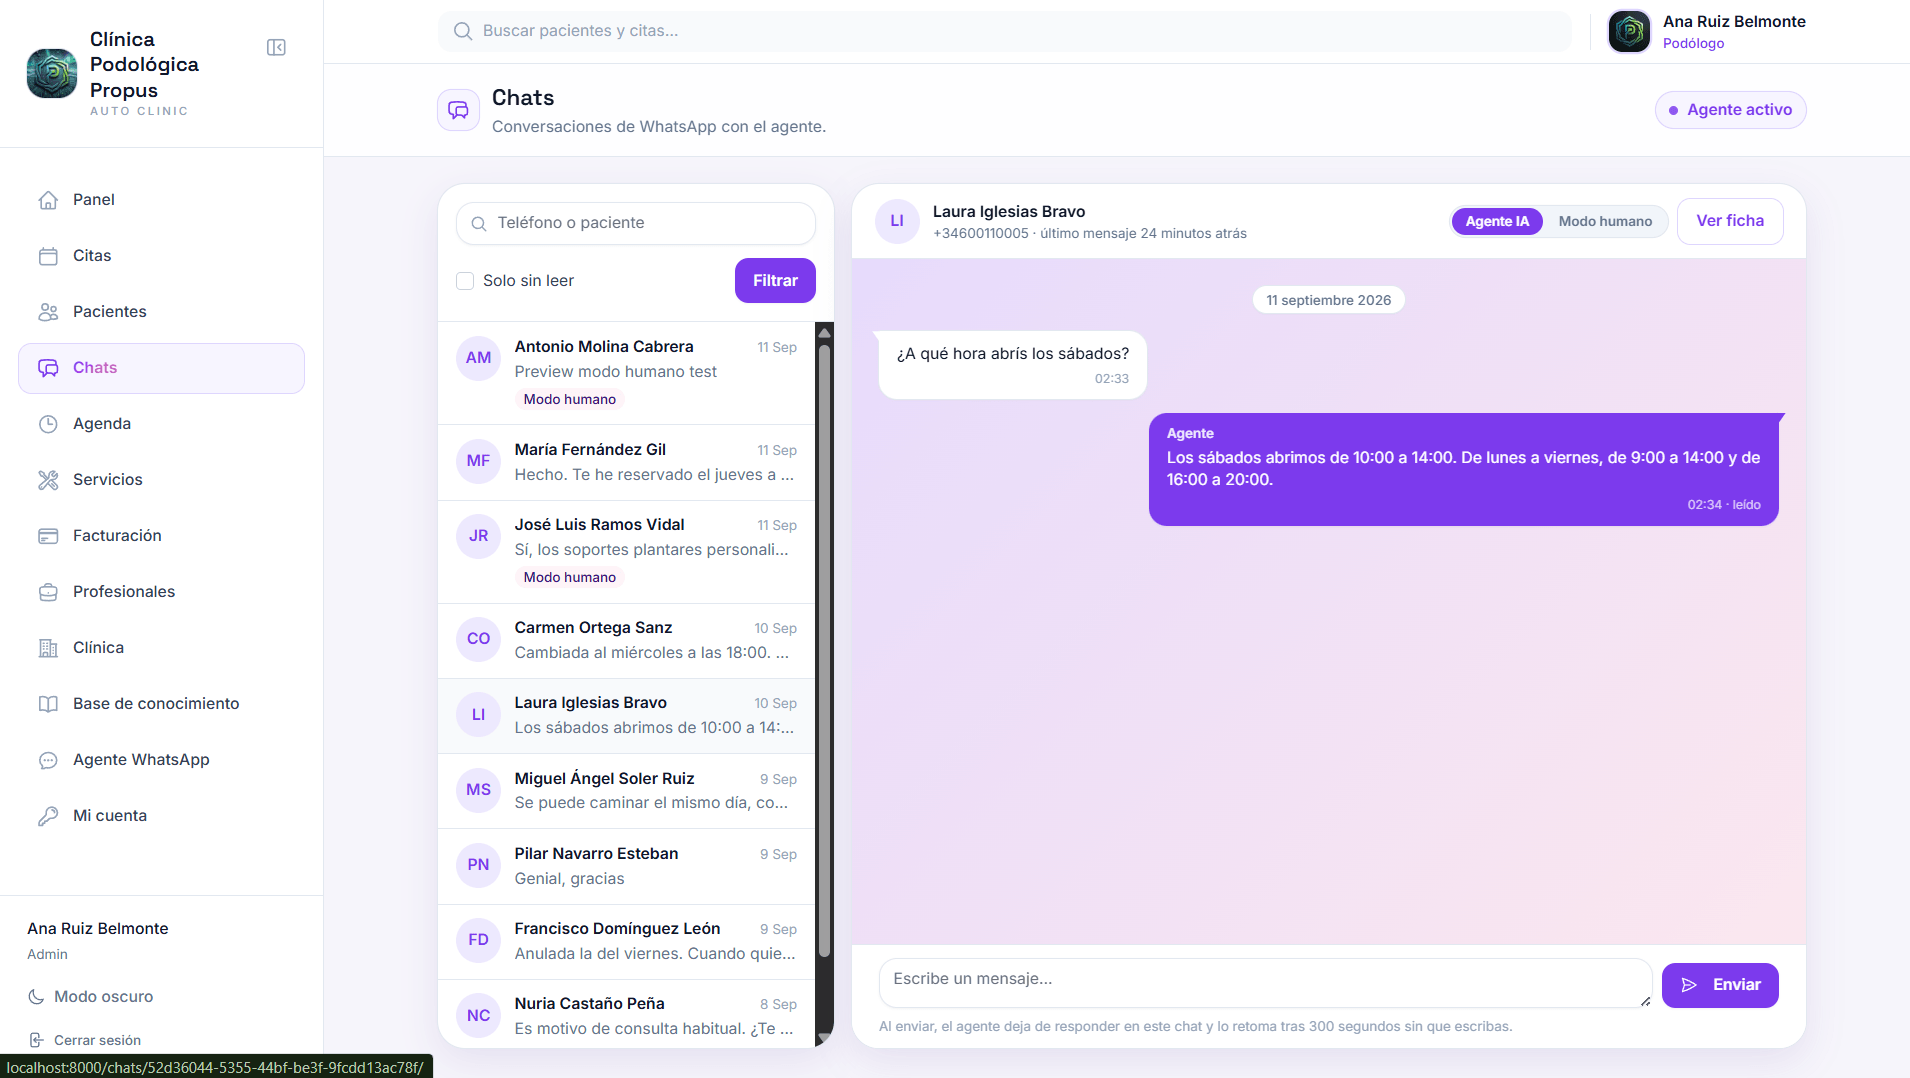
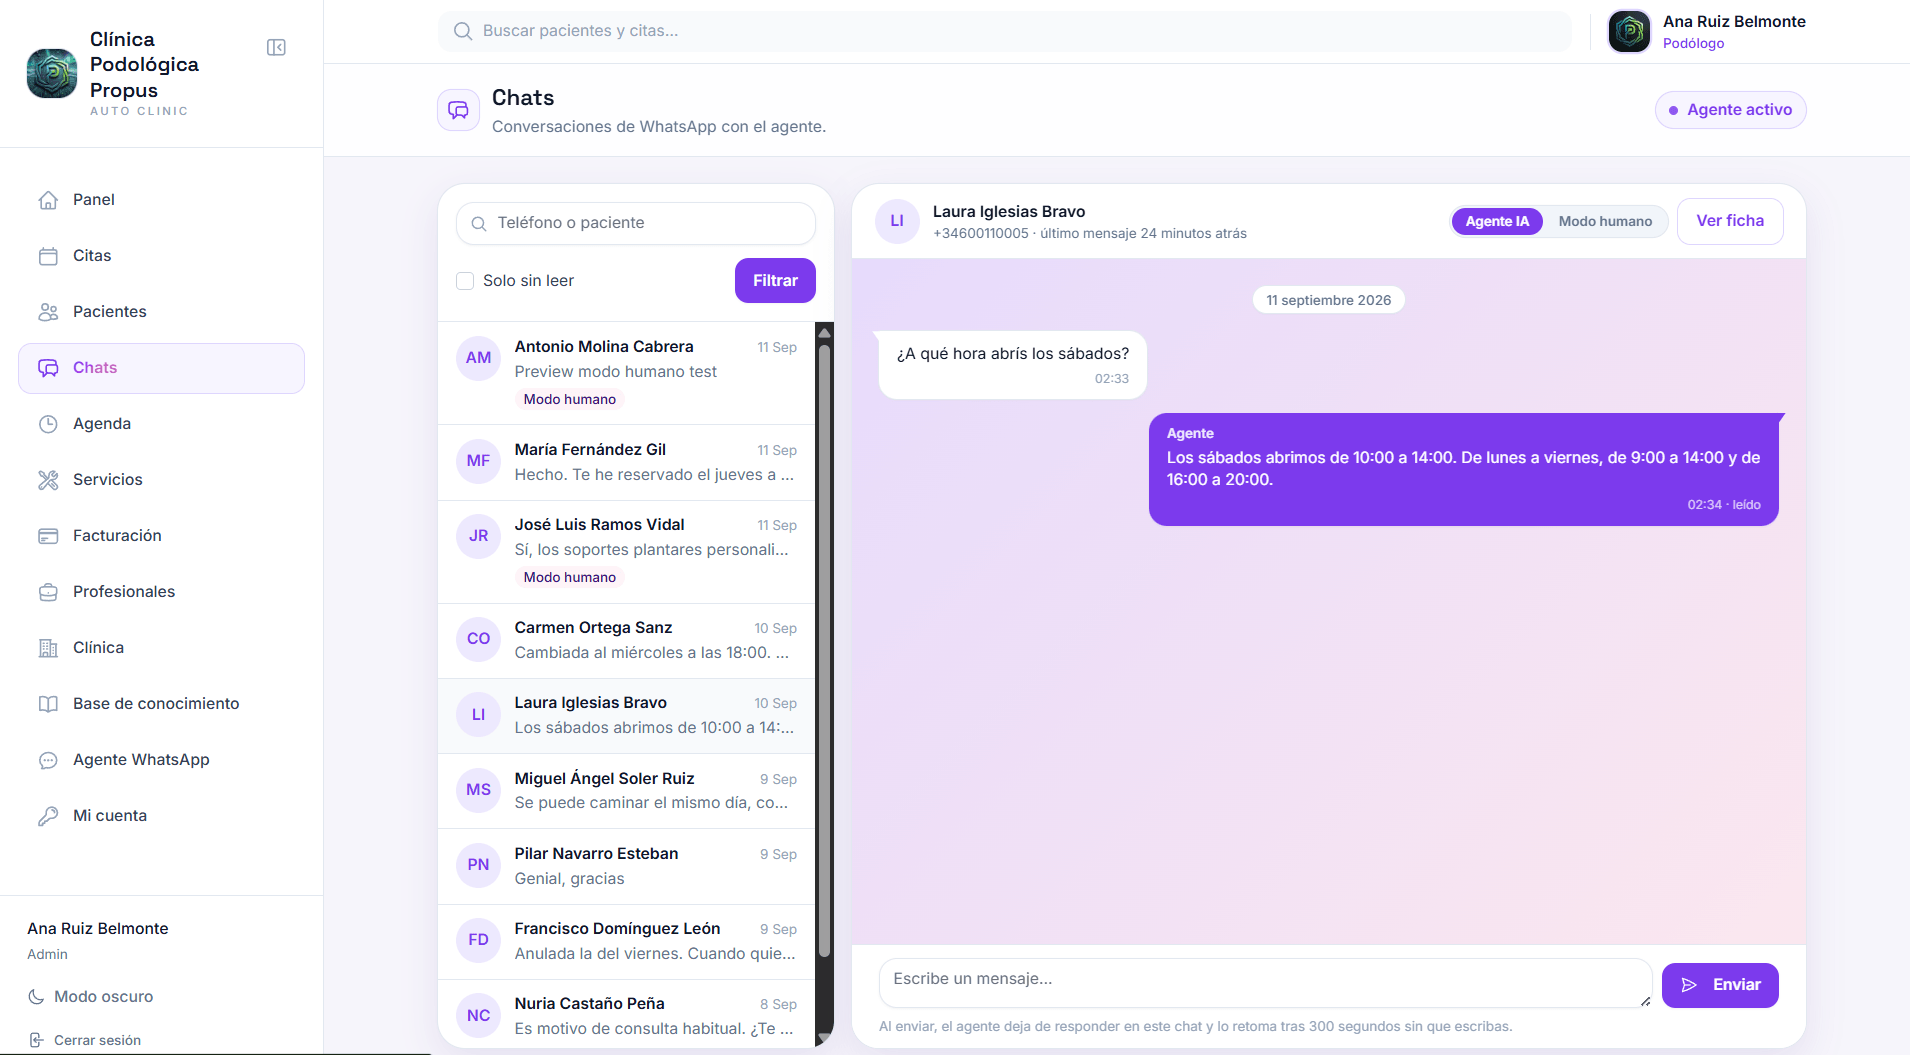
Quitando / de urls y recortado imagenes de panel y chats en modo claro

diff --git a/components/sections/agente-whatsapp/WhaGallery.tsx b/components/sections/agente-whatsapp/WhaGallery.tsx
@@ -42,35 +42,35 @@ const destacadas: Pantalla[] = [
     title: "Chats",
     description:
       "Al conectar tu número a la API de WhatsApp, deja de funcionar en la aplicación del móvil. Esta bandeja te lo devuelve, con el color distinguiendo qué contestó el agente y qué contestó una persona del equipo.",
-    url: "autoclinic.space/chats/",
+    url: "autoclinic.space/chats",
   },
   {
     id: "agenda",
     title: "Agenda",
     description:
       "La semana completa sobre el horario real de cada profesional. Admite jornada partida y ausencias, y las citas que se solapan se reparten en columnas en vez de taparse entre ellas.",
-    url: "autoclinic.space/appointments/",
+    url: "autoclinic.space/appointments",
   },
   {
     id: "pacientes",
     title: "Pacientes",
     description:
       "El directorio de la clínica, con búsqueda por nombre, correo o teléfono. Los números se normalizan al dar de alta, así que el mismo teléfono escrito de tres formas no genera tres fichas. Cada alta abre su historia clínica.",
-    url: "autoclinic.space/patients/",
+    url: "autoclinic.space/patients",
   },
   {
     id: "facturacion",
     title: "Facturación",
     description:
       "Del tratamiento a la factura sin teclear dos veces. Los procedimientos quedan pendientes de facturar, se agrupan en un borrador y al emitirlo toma número de la serie y se cierra. Una factura emitida no se corrige: se anula y se emite otra.",
-    url: "autoclinic.space/facturacion/",
+    url: "autoclinic.space/facturacion",
   },
   {
     id: "agente",
     title: "Agente de WhatsApp",
     description:
       "La configuración del número y, sobre todo, el chat de pruebas: hablas con el agente desde el propio panel, sin gastar mensajes ni molestar a nadie, para comprobar qué contesta antes de ponerlo delante de pacientes.",
-    url: "autoclinic.space/clinic/integraciones/",
+    url: "autoclinic.space/clinic/integraciones",
   },
 ]
 
@@ -80,42 +80,42 @@ const configuracion: Pantalla[] = [
     title: "Citas",
     description:
       "El listado completo, filtrable por fecha y estado. Cada cita guarda su recorrido —quién cambió qué y cuándo— y de dónde vino: del panel, del agente o de la reserva pública.",
-    url: "autoclinic.space/appointments/list/",
+    url: "autoclinic.space/appointments/list",
   },
   {
     id: "servicios",
     title: "Servicios",
     description:
       "El catálogo que el agente consulta para responder precios y calcular cuánto hueco ocupa cada cita. La duración y el precio pueden ser fijos o variables; si la duración varía, la agenda reserva el máximo.",
-    url: "autoclinic.space/services/",
+    url: "autoclinic.space/services",
   },
   {
     id: "profesionales",
     title: "Profesionales",
     description:
       "Quién trabaja, cuándo y en qué: horario semanal por tramos, ausencias y servicios que presta cada uno. Es lo que alimenta el calendario y los huecos que el agente puede ofrecer.",
-    url: "autoclinic.space/appointments/professionals/",
+    url: "autoclinic.space/appointments/professionals",
   },
   {
     id: "clinica",
     title: "Clínica",
     description:
       "Los datos que el agente da cuando se los piden: dirección, contacto y zona horaria. Aquí se fija también cuánto se guarda el hueco de una cita que el agente ha reservado y el equipo aún no ha validado.",
-    url: "autoclinic.space/clinic/info/",
+    url: "autoclinic.space/clinic/info",
   },
   {
     id: "base-conocimiento",
     title: "Base de conocimiento",
     description:
       "Lo que el agente sabe, escrito por la clínica: horarios, ubicación, precios, políticas y preguntas frecuentes. Se edita desde el panel, sin tocar el bot.",
-    url: "autoclinic.space/knowledge/",
+    url: "autoclinic.space/knowledge",
   },
   {
     id: "mi-cuenta",
     title: "Mi cuenta",
     description:
       "Cada miembro del equipo gestiona lo suyo: sus datos de acceso, su ficha profesional y su propio horario y ausencias.",
-    url: "autoclinic.space/cuenta/",
+    url: "autoclinic.space/cuenta",
   },
 ]
 

diff --git a/next.config.ts b/next.config.ts
@@ -6,6 +6,12 @@ const nextConfig: NextConfig = {
   turbopack: {
     root: process.cwd(),
   },
+  images: {
+    // El optimizador cachea por URL, no por contenido: si reemplazas una
+    // captura sin renombrarla, en dev seguirías viendo la vieja durante las
+    // 4 h del TTL por defecto. En producción sí queremos ese TTL.
+    minimumCacheTTL: process.env.NODE_ENV === "development" ? 0 : 14400,
+  },
   async headers() {
     return [
       {
